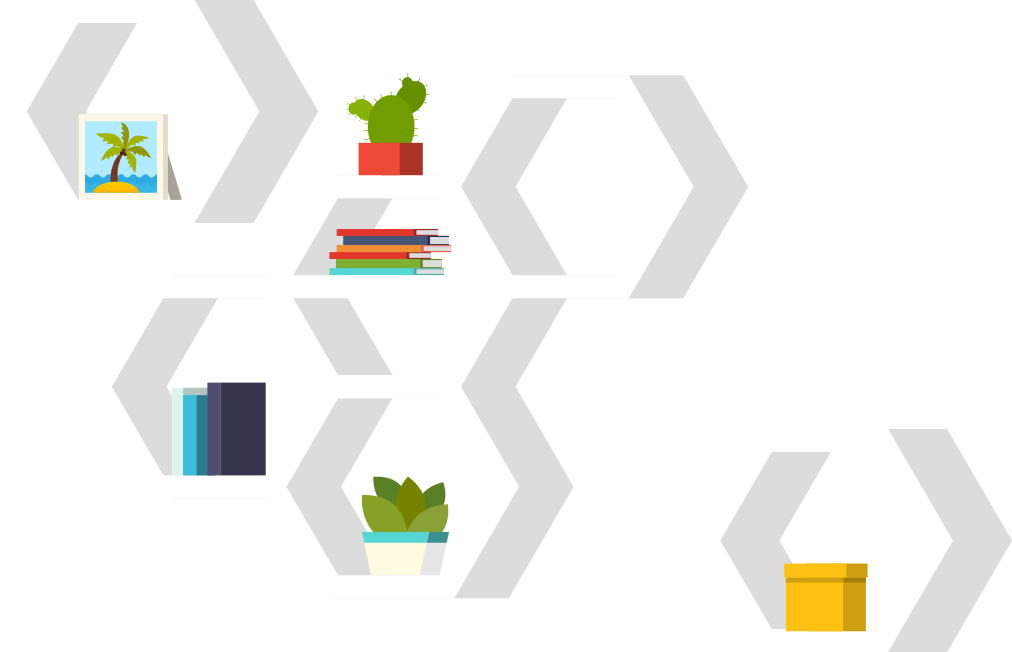
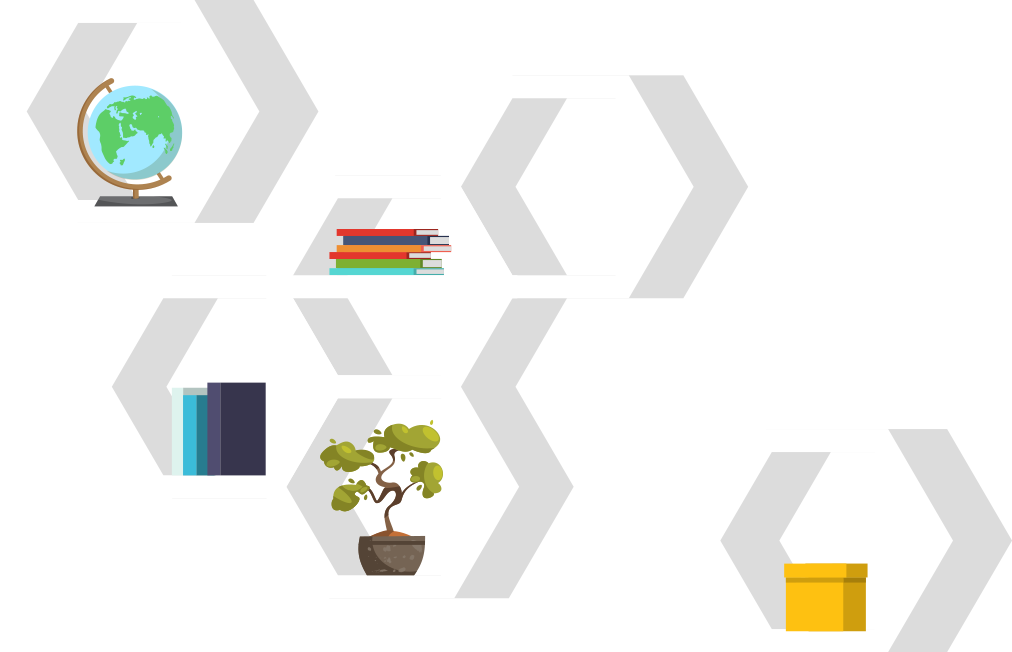
new index design

Changed region(s): [[0.3063, 0.6442, 0.4595, 0.8896], [0.0613, 0.1227, 0.1838, 0.3374], [0.337, 0.1227, 0.4289, 0.2761]]

diff --git a/src/styles/_global.scss b/src/styles/_global.scss
@@ -280,6 +280,27 @@ html{
       z-index: 1;
       //background: black;
     }
+    .bar{
+      width: 751px !important;
+      height: 50px;
+      top: 10px !important;
+      right: -249px !important;
+      left: inherit !important;
+      position: absolute;
+      background: url(../images/new/bar.png) no-repeat center;
+      background-size: 100%;
+    }
+    .rideau{
+      width: 700px !important;
+      height: 650px;
+      top: 36px !important;
+      right: -225px !important;
+      left: inherit !important;
+      position: absolute;
+      background: url(../images/new/rideau.png) no-repeat center;
+      background-size: 100%;
+      z-index: 30;
+    }
     .windows{
       width: 700px !important;
       //height: 486px;
@@ -306,9 +327,6 @@ html{
       left: 36px !important;
       z-index: 40;
     }
-
-
-
     .klo{
       position: relative;
     }
@@ -825,6 +843,7 @@ html{
       margin-right: auto;
       left: 0 !important;
       right: 0 !important;
+      z-index: 40;
       p{
         color:#e74c3c;
         display: block;
